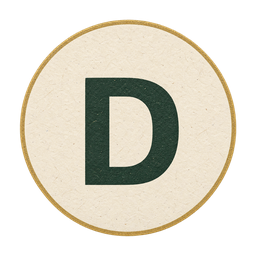
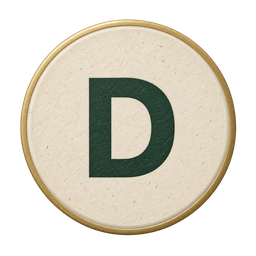
Заменить кнопку дилера на объёмную и подготовить задание на иконки

diff --git a/docs/DESIGNER-LESSON-ICONS.md b/docs/DESIGNER-LESSON-ICONS.md
@@ -1,0 +1,41 @@
+# Задание дизайнеру: иконки уроков PokChe
+
+Сделай через ImageGen девять отдельных иллюстраций для уроков 05–12 и дополнительного «Игра вдолгую». Они заменят временные векторные значки. Уроки 00–04 уже имеют удачные готовые картинки: их не перерисовывать. В результате у каждого из 14 материалов будет своя иллюстрация в едином стиле.
+
+## Референсы — обязательно посмотреть перед генерацией
+
+Возьми реальные изображения из `public/art/`: `topic-cards.png`, `topic-combinations.png`, `topic-actions.png`, `topic-positions.png`, `topic-starting-hands.png`. Они задают стиль, а не готовые композиции для повторения. Особенно полезны `topic-actions.png` и `topic-starting-hands.png`.
+
+Стиль: небольшие объёмные рисованные предметы, как существующие карты и фишки. Чёткий тёмно-бирюзовый контур, мягкая иллюстративная светотень, кремовая бумага, мятный и глубокий бирюзовый, небольшие коралловые акценты. Аккуратный уютный рисунок без фотореализма, блестящего пластика и тяжёлого 3D. Не заменять картинку тонким линейным значком.
+
+## Общий промпт для каждого изображения
+
+Создай одну самостоятельную предметную иллюстрацию для маленькой иконки урока в приложении PokChe. Используй приложенные существующие иконки как стилевые референсы: тот же рисунок, контуры, палитру, мягкий объём и визуальную плотность. Один ясный силуэт, один главный предмет и не более двух вспомогательных. В центре квадратного холста, на настоящем прозрачном фоне. Предмет должен оставаться понятным при показе 48×48 px и различаться с другими иконками по силуэту. Никаких рамок, подложек, круглых бейджей, текста, названия урока, водяных знаков, внешнего свечения, длинных теней или фона с нарисованной шахматной прозрачностью. Допустимы только корректные печатные индексы и масти на картах. Иллюстрация декоративная, не скриншот интерфейса и не схема покерной задачи. Не копируй готовую пару тузов и стопки из референсов: нужен новый сюжет, указанный ниже.
+
+К этому промпту для каждой генерации добавь соответствующий сюжет из таблицы.
+
+## Девять сюжетов и точные имена файлов
+
+| Урок | Файл | Сюжет для генерации |
+|---|---|---|
+| 05 · Решения на префлопе | `topic-preflop.png` | Две слегка перекрывающиеся карты рубашкой вверх, рядом одна небольшая фишка и короткая широкая стрелка вперёд: вступаем в раздачу. Главный силуэт — две закрытые карты; не повторять открытую пару тузов урока 04. |
+| 06 · Покерная математика | `topic-math.png` | Небольшой кремово-бирюзовый калькулятор под лёгким углом и одна коралловая покерная фишка у нижнего угла. Крупные простые клавиши, экран без текста и формул. Главный силуэт — калькулятор. |
+| 07 · Читаем доску | `topic-board.png` | Три открытые общие карты, слегка разложенные веером на маленьком фрагменте зелёного сукна. Две карты одной красной масти, третья чёрной. Чёткие корректные индексы; без отдельного стола, мест и фишек. Главный силуэт — три карты. |
+| 08 · Логика ставок | `topic-bets.png` | Небольшая аккуратно нарисованная рука подвигает короткую бирюзовую стопку фишек вперёд. Кадрировать запястье мягко внутри композиции, пальцы естественные. Главный силуэт — жест ставки, а не ещё одна неподвижная гора фишек. |
+| 09 · Диапазоны на постфлопе | `topic-postflop.png` | Широкий веер из пяти карт с кремово-бирюзовыми рубашками, одна крайняя карта слегка выдвинута и выделена коралловой закладкой: несколько возможных рук. Без мелкой сетки 13×13, таблиц и процентов. Силуэт заметно шире, чем пара карт урока 05. |
+| 10 · План на несколько улиц | `topic-plan.png` | Три небольшие закрытые карты ступеньками от нижнего левого к верхнему правому углу, соединённые одной широкой мягко изогнутой стрелкой. Понятное движение через три этапа, без надписей и цифр. Главный силуэт — диагональная последовательность. |
+| 11 · Подстройка под соперника | `topic-adjust.png` | Крупная кремово-бирюзовая лупа над двумя небольшими фишками разных цветов: внимательно наблюдаем различия. Без лица, глаза, букв и микродеталей. Главный силуэт — лупа. |
+| 12 · Продвинутая стратегия | `topic-advanced.png` | Одна крупная закрытая карта позади простого разветвления на две дорожки, заканчивающиеся бирюзовой и коралловой фишками. Ветви толстые и короткие, композиция похожа на предметную иллюстрацию выбора двух действий, а не тонкую блок-схему. Без мозга, робота, шестерёнок и формул. |
+| + · Игра вдолгую | `topic-mindset.png` | Небольшие кремово-бирюзовые песочные часы рядом с одной покерной фишкой. Спокойный устойчивый силуэт, простой песок, без денег, монет с валютой и надписей. Главный силуэт — песочные часы. |
+
+## Экспорт и проверка
+
+- Отдельный PNG RGBA 256×256 для каждого сюжета. Исходную генерацию высокого разрешения сохранить отдельно.
+- Видимая композиция примерно 208–224 px по большей стороне; безопасные прозрачные поля не менее 16 px. Оптический центр и воспринимаемый размер выровнять с существующими иконками.
+- Контуры и важные детали не обрезать. Внутренние мягкие тени допустимы, широкая тень вокруг предмета — нет.
+- Проверить каждую при **48×48** и **36×36** на фоне приложения **#f5faf7**. Если сюжет превращается в пятно, упростить детали; не увеличивать число предметов.
+- Приложить обзор всех 14 иконок: пять существующих и девять новых рядом, в реальном размере 48 px. Превью отдельно, не вместо отдельных PNG.
+- Сложить результат в `design/lesson-icons-v2/`: девять файлов, `preview-48.png`, `preview-36.png`, `README.md`, исходники в `originals/`. В README перечислить размеры, прозрачность и смысл иконок.
+- Код приложения и `public/` не менять: разработчик подключит готовый пакет. Существующие дизайнерские оригиналы не перезаписывать.
+
+Дополнительные ассеты сейчас не требуются. Кнопка дилера уже выбрана пользователем: `dealer-button-relief.png`, с тонким объёмным бортиком; её заново генерировать не нужно.

diff --git a/docs/HANDOFF.md b/docs/HANDOFF.md
@@ -10,7 +10,7 @@
 - Самостоятельная математика проверяется независимым pokersolver и эталонами SciPy. Равные по EV действия принимаются оба. Не выдавать эти модели за полную стратегию холдема.
 - Смешанная практика сохраняет исходный набор навыков при получении следующих задач. Повтор ошибки и похожая задача доступны. Освоение тем 07–12 требует разных семейств и уникальных задач, не десяти ответов на одну сохранённую ошибку.
 - Прогресс, ошибки и закладки сохраняются локально; экспорт/импорт и офлайн. Ключ `river.progress.v1` не менять. Незавершённая сессия не восстанавливается после reload; проверенные ответы сохраняются сразу.
-- Улучшенная **плоская** кнопка дизайнера `design/table-chips-v1/dealer-button-paper.png` скопирована в `public/art/table-chips/dealer-button.png`. 3D/relief не подключён. SHA-256 копии совпадает с оригиналом. Общий ChipArt обновляет все столы.
+- Улучшенная **объёмная** кнопка дизайнера `design/table-chips-v1/dealer-button-relief.png` скопирована в `public/art/table-chips/dealer-button.png`. Плоский вариант заменён по последнему запросу пользователя. SHA-256 копии совпадает с оригиналом. Общий ChipArt обновляет все столы.
 
 ## Граница MVP
 
@@ -45,7 +45,7 @@ npm run test:e2e
 - Стол, ставки, банк и позиции должны объяснять ситуацию. PokerTable общий, круглые места вне сукна, D и фишки на сукне. Числовая подпись задаёт сумму, число слоёв стопки условное.
 - Персонаж Иваныч, полезные советы без заполнения пустоты ради картинки. Селектор изображения персонажа только `.sava-panel > img`, иначе ломаются карты в облаке.
 - Кэш/турниры — текстовая справка из настроек, не плашка в каждом уроке. Иконки тем разные. Никаких hover-only действий, горизонтального плавания и рекламы.
-- Дизайнер доступен, но новых ассетов сейчас не нужно. Оригиналы `design/` вне Git: не добавлять целиком, не удалять, не перезаписывать. Утверждённый макет design/mobile-refinement/02-mint-fixed.png. Старый stash «Черновик этапа C до уточнений пользователя…» не применять целиком.
+- Дизайнеру подготовлено задание на девять иконок 05–12 и бонуса: DESIGNER-LESSON-ICONS.md. Иконки 00–04 сохранить. Оригиналы `design/` вне Git: не добавлять целиком, не удалять, не перезаписывать. Утверждённый макет design/mobile-refinement/02-mint-fixed.png. Старый stash «Черновик этапа C до уточнений пользователя…» не применять целиком.
 
 ## Основные файлы
 

diff --git a/docs/NEXT-STEPS.md b/docs/NEXT-STEPS.md
@@ -9,6 +9,6 @@
 5. Затем расширить реальные узлы: варианты блокеров, EV потерь, смешанные частоты, ветвящиеся раздачи. Новые размеры/карты требуют нового расчёта; похожесть картинки не достаточна.
 6. Турниры, короткие стеки, пуш/фолд, ICM и выплаты — отдельная программа с собственными данными. Настройка предпочтения пока не переключает базовые ответы.
 
-Перед каждым новым уроком: план → примеры → числовые эталоны → реализация. После законченной порции: подходящие тесты, мобильный просмотр, коммит/push, успешный Actions и фактический bundle. Разрешение пользователя на публикацию действует постоянно. Новых ассетов сейчас не требуется; плоская улучшенная D уже подключена, relief не использовать.
+Перед каждым новым уроком: план → примеры → числовые эталоны → реализация. После законченной порции: подходящие тесты, мобильный просмотр, коммит/push, успешный Actions и фактический bundle. Разрешение пользователя на публикацию действует постоянно. Подключить девять PNG иконок после готовности дизайнера по DESIGNER-LESSON-ICONS.md. Последний выбор кнопки D — объёмный dealer-button-relief.png, он уже подключён.
 
 Ограничения намеренно простые: localStorage без синхронизации, незавершённая сессия при перезагрузке начинается заново, проверенные ответы сохраняются. Ключ river.progress.v1 не менять; design/ не трогать. Общий исходный план ROADMAP-07-12.md остаётся ориентиром следующих расширений, а не декларацией о выполнении каждой его стратегической части.

diff --git a/README.md b/README.md
@@ -39,7 +39,7 @@ npm run preview -- --port 4173
 - 17 тренажёров: от карт и комбинаций до эквити диапазона, EV ставки, связанных решений тёрн → ривер, статистики наблюдений, блокеров и частот.
 - Целевые семейства задач вместо случайных досок без учебной цели. Полный перебор риверов и взвешенного диапазона, точные условия моделей. Несколько равноценных действий принимаются как правильные.
 - Пять собственных ограниченных риверных игр, рассчитанных SciPy/HiGHS и независимо сверенных формулами. [Условия и воспроизведение](docs/RIVER-PILOT.md).
-- Общий стол с готовыми ассетами, фишками, круглыми позициями и улучшенной плоской D. Масштабируемые карты. Интерактивный калькулятор линии и просмотр частот модели.
+- Общий стол с готовыми ассетами, фишками, круглыми позициями и улучшенной объёмной D. Масштабируемые карты. Интерактивный калькулятор линии и просмотр частот модели.
 - Свободная и смешанная практика, объяснения, подсказки, сохранённые ошибки и похожие задачи. Освоение новых тем требует разных семейств, а не повторения одного ответа. Чтение учитывается отдельно.
 - Локальный прогресс, экспорт/импорт, офлайн-PWA. Кэш и турниры объяснены на отдельной странице настроек; выбор предпочтения сохраняется.
 

diff --git a/docs/ASSET-INTEGRATION.md b/docs/ASSET-INTEGRATION.md
@@ -8,4 +8,4 @@
 
 ## Стол и дилер · сентябрь 2026
 
-Готовый пакет design/table-chips-v1 подключён в public/art/table-chips: строгий стол, фишки/стопки, D. Общий ChipArt использует contentBounds. Улучшенная плоская бумажная dealer-button-paper.png выбрана по просьбе пользователя; рабочий путь dealer-button.png сохранён, поэтому замена действует везде. Relief/3D не используется. Текущий production precache около 5,2 МиБ; старое число 1,86 МиБ выше относится к раннему пакету.
+Готовый пакет design/table-chips-v1 подключён в public/art/table-chips: строгий стол, фишки/стопки, D. Общий ChipArt использует contentBounds. По последнему запросу пользователя выбран объёмный dealer-button-relief.png; рабочий путь dealer-button.png сохранён, поэтому замена действует везде. Плоский вариант заменён. Текущий production precache около 5,2 МиБ; старое число 1,86 МиБ выше относится к раннему пакету.

diff --git a/public/art/table-chips/README.md b/public/art/table-chips/README.md
@@ -4,4 +4,4 @@
 
 ChipArt.tsx использует contentBounds из qa.json как viewBox, чтобы прозрачные поля не уменьшали рисунок. Вид стопки условный; точная сумма всегда подписана. PokerTable размещает стол на общем поле 400×290, а места, карты, суммы и кнопку D отдельно.
 
-Кнопка dealer-button.png заменена на улучшенный плоский dealer-button-paper.png по выбору пользователя. Объёмный relief не подключён; исходники сохранены у дизайнера.
+Кнопка dealer-button.png заменена на dealer-button-relief.png: пользователь выбрал вариант с тонким объёмным бортиком. Размер и contentBounds сохранены; замена действует во всех сценах через общий ChipArt. Плоский вариант остаётся у дизайнера.
